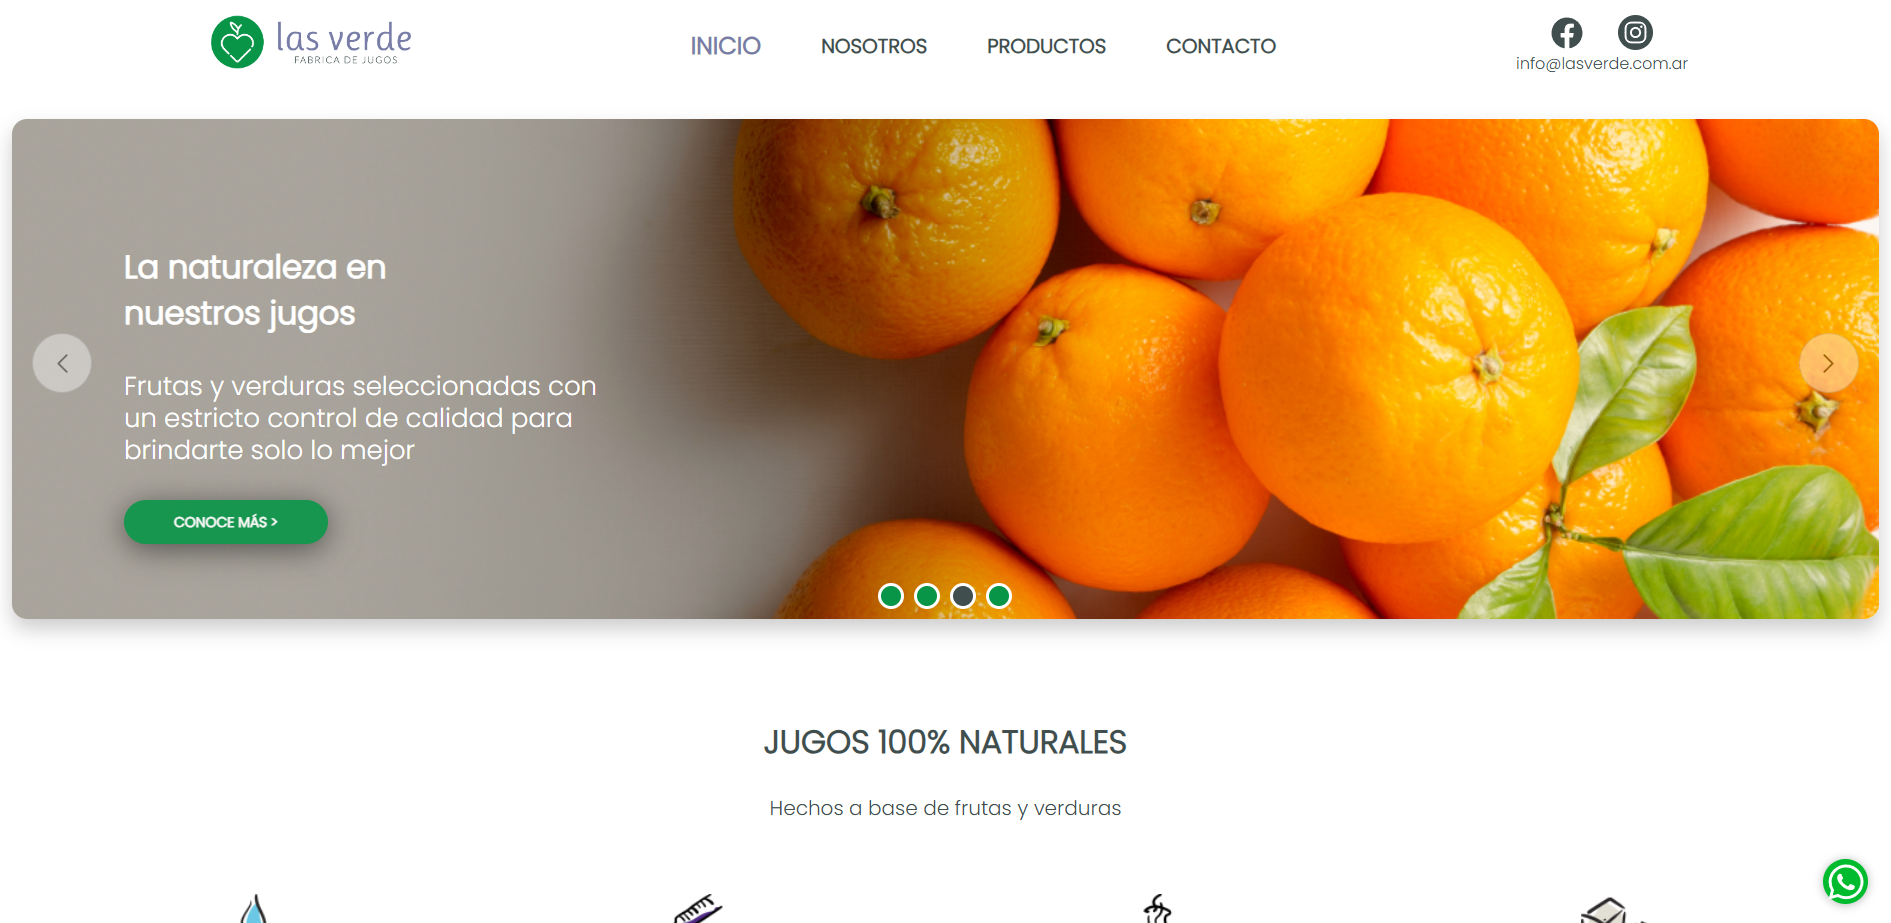
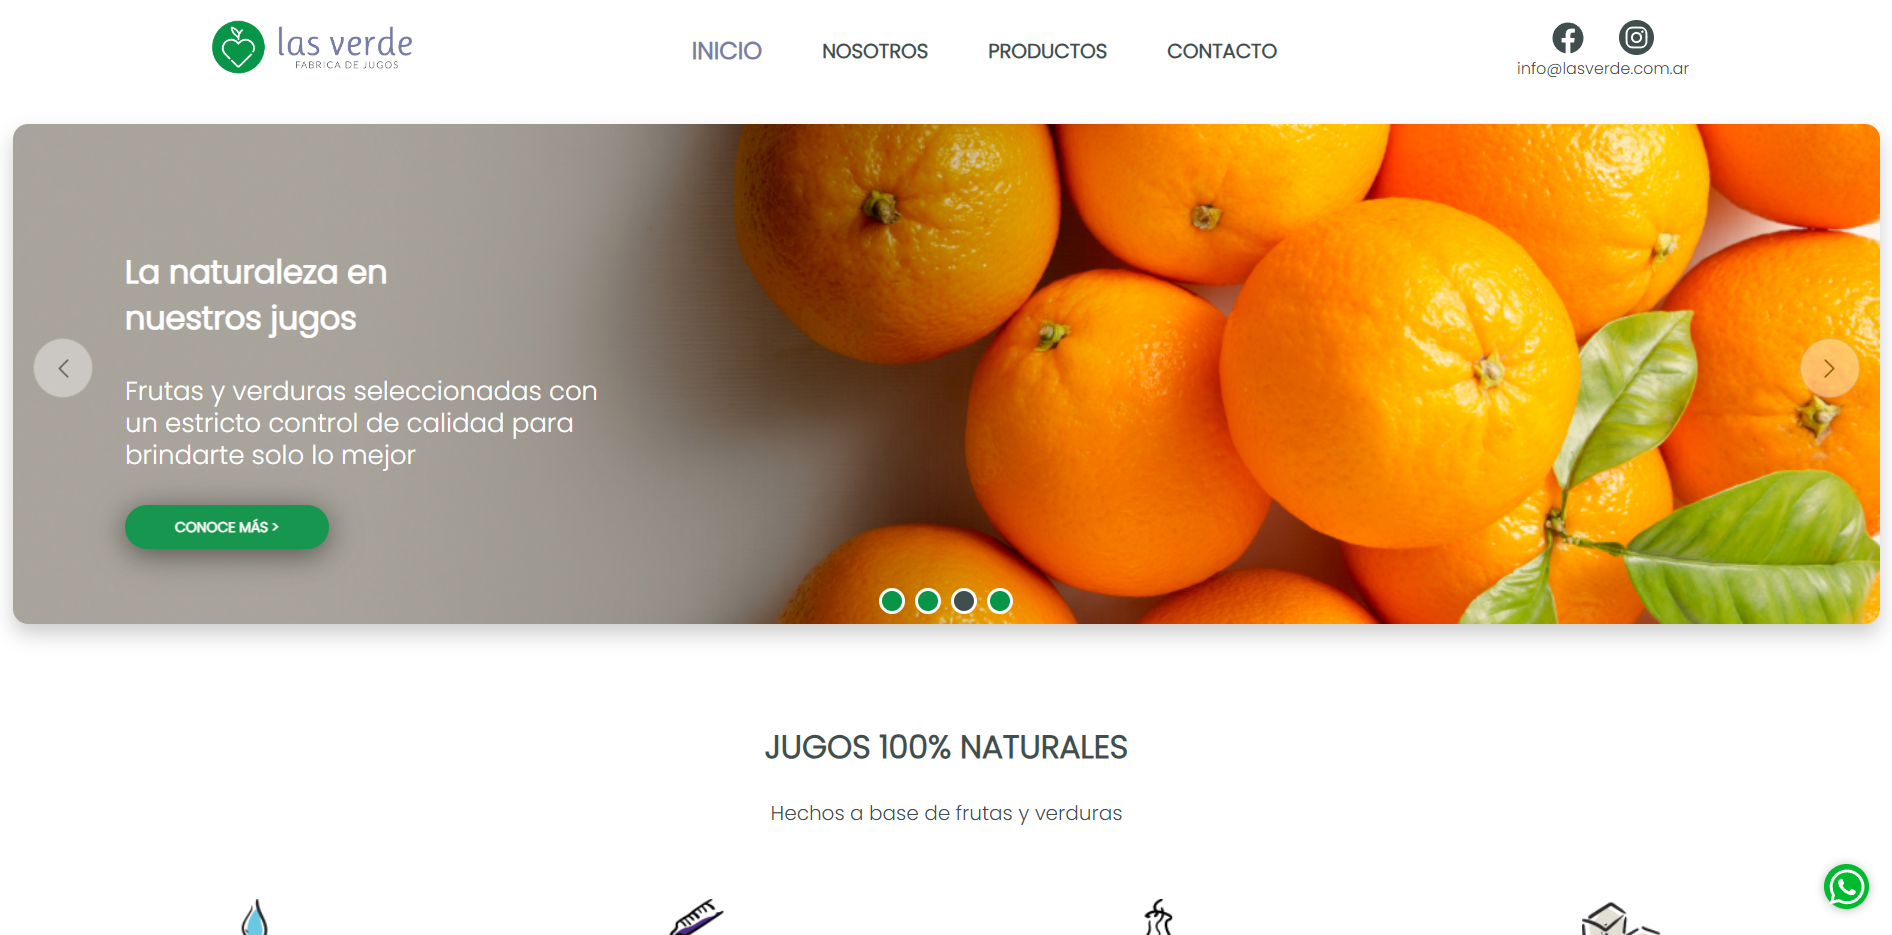
feat(portfolio): refine projects grid layout, mobile drawer navigation, and project preview assets
- projects: sort projects in reverse chronological order (2025 - Present first)
- projects: assign Solar Banco to APIs category and optimize tech tag names to eliminate wrapping gaps
- projects: set title min-height for uniform horizontal alignment and apply full-width cover preview containers
- projects: add private code badge footer for non-public client repositories
- projects: restore complete web application preview screenshot for Descubriendo Jardín Maternal
- mobile: fix SVG curve z-index overlap, center drawer footer social icons, and balance bottom viewport spacing
- links: restore direct mailto: action on email icons avoiding blank browser tab triggers

diff --git a/src/components/projects/ProjectCard.jsx b/src/components/projects/ProjectCard.jsx
@@ -3,7 +3,7 @@
 import { useState } from "react";
 import { motion, AnimatePresence } from "framer-motion";
 import Image from "next/image";
-import { ExternalLink, Github, Layers, ArrowUpRight, ChevronDown, ChevronUp } from "lucide-react";
+import { ExternalLink, Github, Layers, ArrowUpRight, ChevronDown, ChevronUp, Lock } from "lucide-react";
 
 export default function ProjectCard({ project, index }) {
   const [isExpanded, setIsExpanded] = useState(false);
@@ -15,8 +15,8 @@ export default function ProjectCard({ project, index }) {
       initial={{ opacity: 0, x: initialX, scale: 0.98 }}
       animate={{ opacity: 1, x: 0, scale: 1 }}
       transition={{
-        duration: 0.35,
-        delay: index * 0.05,
+        duration: 0.5,
+        delay: index * 0.1,
         ease: [0.25, 1, 0.5, 1],
       }}
       className="group relative flex flex-col justify-between rounded-[0.35rem] border border-soft surface-card p-4 sm:p-6 lg:p-8 transition-[border-color,box-shadow] duration-300 hover:border-indigo-500/40 hover:shadow-xl dark:hover:shadow-indigo-950/20"
@@ -31,26 +31,35 @@ export default function ProjectCard({ project, index }) {
           <span className="text-muted text-[0.7rem] sm:text-xs">{project.period}</span>
         </div>
 
-        {/* Title */}
-        <h3 className="text-lg sm:text-xl md:text-2xl font-bold text-foreground group-hover:text-indigo-600 dark:group-hover:text-indigo-400 transition-colors leading-snug">
-          {project.title}
-        </h3>
-
-        {/* Company subtitle */}
-        <p className="text-xs sm:text-sm font-semibold text-muted mt-1 mb-3 sm:mb-4">
-          {project.company}
-        </p>
+        {/* Title & Company (with min-height for horizontal alignment) */}
+        <div className="min-h-[5rem] sm:min-h-[5.5rem] flex flex-col justify-start mb-3 sm:mb-4">
+          <h3 className="text-lg sm:text-xl md:text-2xl font-bold text-foreground group-hover:text-indigo-600 dark:group-hover:text-indigo-400 transition-colors leading-snug">
+            {project.title}
+          </h3>
+          <p className="text-xs sm:text-sm font-semibold text-muted mt-1">
+            {project.company}
+          </p>
+        </div>
 
         {/* Image Preview / Banner */}
-        <div className="relative w-full h-28 sm:h-36 my-3 sm:my-4 rounded-[0.35rem] overflow-hidden bg-slate-100/80 dark:bg-slate-900/80 border border-slate-200/80 dark:border-slate-800/80 flex items-center justify-center p-3 sm:p-4 shadow-xs transition-colors">
-          <Image
-            src={project.image}
-            alt={project.title}
-            width={400}
-            height={200}
-            className="object-contain max-h-full w-auto transition-transform duration-500 group-hover:scale-105 rounded-[0.25rem] dark:brightness-95 dark:contrast-105"
-          />
-        </div>
+        {(() => {
+          const isLogo = project.id === "syspro-logistica" || project.id === "solar-banco-etl";
+          return (
+            <div className="relative w-full h-44 sm:h-52 md:h-56 my-3 sm:my-4 rounded-[0.35rem] overflow-hidden bg-slate-100/90 dark:bg-slate-900/90 border border-slate-200/80 dark:border-slate-800/80 flex items-center justify-center shadow-xs transition-colors">
+              <Image
+                src={project.image}
+                alt={project.title}
+                fill
+                sizes="(max-width: 768px) 100vw, (max-width: 1200px) 50vw, 600px"
+                className={
+                  isLogo
+                    ? "object-contain p-6 sm:p-8 transition-transform duration-500 group-hover:scale-105 dark:brightness-95 dark:contrast-105"
+                    : "object-cover object-top w-full h-full transition-transform duration-500 group-hover:scale-105 dark:brightness-95 dark:contrast-105"
+                }
+              />
+            </div>
+          );
+        })()}
 
         {/* Description / Summary with Read More */}
         <div className="my-3 sm:my-4">
@@ -67,19 +76,18 @@ export default function ProjectCard({ project, index }) {
             </motion.p>
           </AnimatePresence>
 
-          {project.description && project.description !== project.summary && (
-            <button
-              onClick={() => setIsExpanded(!isExpanded)}
-              className="inline-flex items-center gap-1 text-xs sm:text-sm font-semibold text-indigo-600 dark:text-indigo-400 hover:text-indigo-700 dark:hover:text-indigo-300 mt-2.5 transition-colors cursor-pointer focus:outline-none"
-            >
-              <span>{isExpanded ? "Ver menos" : "Ver más detalles"}</span>
-              {isExpanded ? (
-                <ChevronUp className="w-3.5 h-3.5 sm:w-4 sm:h-4" />
-              ) : (
-                <ChevronDown className="w-3.5 h-3.5 sm:w-4 sm:h-4" />
-              )}
-            </button>
-          )}
+          <button
+            onClick={() => setIsExpanded(!isExpanded)}
+            className="inline-flex items-center gap-1.5 text-xs sm:text-sm font-semibold text-indigo-600 dark:text-indigo-400 hover:text-indigo-700 dark:hover:text-indigo-300 mt-2 cursor-pointer transition-colors"
+            aria-expanded={isExpanded}
+          >
+            <span>{isExpanded ? "Ver menos" : "Ver más detalles"}</span>
+            {isExpanded ? (
+              <ChevronUp className="w-3.5 h-3.5 sm:w-4 sm:h-4" />
+            ) : (
+              <ChevronDown className="w-3.5 h-3.5 sm:w-4 sm:h-4" />
+            )}
+          </button>
         </div>
       </div>
 
@@ -96,8 +104,8 @@ export default function ProjectCard({ project, index }) {
           ))}
         </div>
 
-        {/* Links Footer (se renderiza solo si existen enlaces) */}
-        {(project.demoUrl || project.githubUrl) && (
+        {/* Links Footer or NDA Enterprise Badge */}
+        {project.demoUrl || project.githubUrl ? (
           <div className="flex flex-wrap items-center gap-3 sm:gap-4 pt-3 mt-3 border-t border-soft/50">
             {project.demoUrl && (
               <a
@@ -121,6 +129,11 @@ export default function ProjectCard({ project, index }) {
                 <span>Código</span>
               </a>
             )}
+          </div>
+        ) : (
+          <div className="flex items-center gap-2 pt-3 mt-3 border-t border-soft/50 text-xs sm:text-sm font-medium text-muted">
+            <Lock className="w-3.5 h-3.5 sm:w-4 sm:h-4 text-slate-400 opacity-80" />
+            <span>Proyecto de código privado</span>
           </div>
         )}
       </div>

diff --git a/src/components/projects/ProjectsGrid.jsx b/src/components/projects/ProjectsGrid.jsx
@@ -2,6 +2,7 @@
 
 import { useState, useEffect } from "react";
 import { motion, AnimatePresence } from "framer-motion";
+import { FolderSearch, RotateCcw } from "lucide-react";
 import { PROJECTS, PROJECT_CATEGORIES } from "@/data/projectsData";
 import ProjectCard from "./ProjectCard";
 
@@ -42,19 +43,46 @@ export default function ProjectsGrid() {
         })}
       </div>
 
-      {/* Grid container with smooth transition per category */}
+      {/* Grid container or Empty State */}
       <AnimatePresence mode="wait">
-        <motion.div
-          key={selectedCategory}
-          initial={{ opacity: 0 }}
-          animate={{ opacity: 1 }}
-          exit={{ opacity: 0, transition: { duration: 0.15 } }}
-          className="grid grid-cols-1 md:grid-cols-2 gap-6 sm:gap-8"
-        >
-          {filteredProjects.map((project, index) => (
-            <ProjectCard key={project.id} project={project} index={index} />
-          ))}
-        </motion.div>
+        {filteredProjects.length > 0 ? (
+          <motion.div
+            key={selectedCategory}
+            initial={{ opacity: 0 }}
+            animate={{ opacity: 1 }}
+            exit={{ opacity: 0, transition: { duration: 0.15 } }}
+            className="grid grid-cols-1 md:grid-cols-2 gap-6 sm:gap-8"
+          >
+            {filteredProjects.map((project, index) => (
+              <ProjectCard key={project.id} project={project} index={index} />
+            ))}
+          </motion.div>
+        ) : (
+          <motion.div
+            key="empty-state"
+            initial={{ opacity: 0, y: 12, scale: 0.98 }}
+            animate={{ opacity: 1, y: 0, scale: 1 }}
+            exit={{ opacity: 0, scale: 0.98, transition: { duration: 0.15 } }}
+            className="flex flex-col items-center justify-center py-14 px-6 text-center surface-card border border-soft rounded-[0.35rem] my-4 shadow-sm"
+          >
+            <div className="w-14 h-14 rounded-full bg-indigo-500/10 text-indigo-600 dark:text-indigo-400 flex items-center justify-center mb-4">
+              <FolderSearch className="w-7 h-7" />
+            </div>
+            <h3 className="text-lg sm:text-xl font-bold text-foreground mb-2">
+              No hay proyectos en esta categoría por el momento
+            </h3>
+            <p className="text-xs sm:text-sm text-muted-foreground mb-6 max-w-md leading-relaxed">
+              Los módulos de APIs y Microservicios están integrados dentro de las soluciones Full Stack o bajo acuerdo de confidencialidad (NDA).
+            </p>
+            <button
+              onClick={() => setSelectedCategory("all")}
+              className="inline-flex items-center gap-2 px-4 py-2.5 rounded-[0.35rem] bg-indigo-600 text-white text-xs sm:text-sm font-semibold hover:bg-indigo-700 transition-colors shadow-sm cursor-pointer"
+            >
+              <RotateCcw className="w-3.5 h-3.5 sm:w-4 sm:h-4" />
+              <span>Ver todos los proyectos</span>
+            </button>
+          </motion.div>
+        )}
       </AnimatePresence>
     </div>
   );

diff --git a/src/components/header/BurgerMenuMobile.jsx b/src/components/header/BurgerMenuMobile.jsx
@@ -58,24 +58,27 @@ const BurgerMenuMobile = ({ updateMenu }) => {
             />
           ))}
         </div>
-        <div className="footer border-t border-t-gray-200 pt-6">
+        <div className="footer border-t border-t-gray-200/50 pt-2 pb-1 sm:pb-2 flex-shrink-0 flex items-center justify-center gap-6 sm:gap-8">
           <motion.div {...slideMotionProps} custom={footerStartIndex}>
             <ThemeToggle />
           </motion.div>
-          {SOCIAL_LINKS.map(({ href, label, Icon }, index) => (
-            <motion.a
-              key={href}
-              {...slideMotionProps}
-              custom={footerStartIndex + index + 1}
-              href={href}
-              target="_blank"
-              rel="noreferrer"
-              aria-label={label}
-              className="text-muted-link transition-colors hover:text-accent"
-            >
-              <Icon size={20} />
-            </motion.a>
-          ))}
+          {SOCIAL_LINKS.map(({ href, label, Icon }, index) => {
+            const isMail = href.startsWith("mailto:");
+            return (
+              <motion.a
+                key={href}
+                {...slideMotionProps}
+                custom={footerStartIndex + index + 1}
+                href={href}
+                target={isMail ? undefined : "_blank"}
+                rel={isMail ? undefined : "noreferrer"}
+                aria-label={label}
+                className="text-muted-link transition-colors hover:text-accent"
+              >
+                <Icon size={20} />
+              </motion.a>
+            );
+          })}
         </div>
       </div>
     </motion.div>

diff --git a/src/app/globals.css b/src/app/globals.css
@@ -156,24 +156,26 @@ body::-webkit-scrollbar-thumb {
 	top: 0;
 	right: 0;
 	z-index: 60;
-	overflow: hidden;
+	overflow-y: auto;
 }
 
 .menu .body {
 	box-sizing: border-box;
-	padding: 0 2rem max(1.5rem, env(safe-area-inset-bottom)) 2rem;
-	height: 100%;
+	padding: 0 1.5rem max(1.25rem, env(safe-area-inset-bottom)) 1.5rem;
+	min-height: 100%;
 	display: flex;
 	flex-direction: column;
 	justify-content: space-between;
+	position: relative;
+	z-index: 50;
 }
 
 .menu .body .nav {
-	margin-top: 5rem;
+	margin-top: 2rem;
 	display: flex;
 	flex-direction: column;
-	gap: 1rem;
-	font-size: 1.2rem;
+	gap: 0.75rem;
+	font-size: 1.15rem;
 }
 
 .menu .body .nav .header h2 {
@@ -192,12 +194,13 @@ body::-webkit-scrollbar-thumb {
 .menu .body .nav .link-content {
 	width: 100%;
 	display: flex;
-	gap: 0.65rem;
+	gap: 0.75rem;
 	align-items: center;
 	text-decoration: none;
 	color: inherit;
 	font-weight: 500;
 	transition: color 0.2s ease;
+	padding-left: 0.25rem;
 }
 
 .menu .body .nav .link-content:hover {
@@ -206,9 +209,9 @@ body::-webkit-scrollbar-thumb {
 
 .menu .footer {
 	display: flex;
-	justify-content: space-between;
+	justify-content: center;
 	align-items: center;
-	gap: 0.75rem;
+	gap: 1.5rem;
 	font-size: 0.85rem;
 	color: var(--muted);
 }

diff --git a/src/data/projectsData.js b/src/data/projectsData.js
@@ -60,8 +60,8 @@ export const PROJECTS = [
   {
     id: "solar-banco-etl",
     title: "Plataforma de Riesgos & Liquidez (LCR / VaR)",
-    category: "full-stack",
-    categoryLabel: "Full Stack",
+    category: "apis",
+    categoryLabel: "APIs y Microservicios",
     company: "Solar Banco",
     period: "2024 — 2025",
     summary:
@@ -102,7 +102,7 @@ export const PROJECTS = [
       "Plataforma institucional responsiva con catálogo de propuesta educativa, slider interactivo, FAQ y validación de contacto.",
     description:
       "Proyecto cliente real asignado por Coderhouse como premio por quedar en el Top 10 del curso de Desarrollo Web. Desarrollado con HTML5 semántico, CSS3/Bootstrap 5 y JavaScript (ES6+). Incluye slider interactivo de instalaciones, validación cliente de formularios, acordeón de preguntas frecuentes e integración con Google Maps y WhatsApp.",
-    image: "/images/descubriendo_jardin.svg",
+    image: "/images/descubriendo_jardin_preview.png",
     tags: ["HTML5", "CSS3", "Bootstrap 5", "UX/UI", "JavaScript", "Responsive"],
     featured: false,
     githubUrl: "https://github.com/GustavoBaranda/Descubrimiento-Jardin-Maternal",

diff --git a/src/components/common/SocialLinks.jsx b/src/components/common/SocialLinks.jsx
@@ -25,18 +25,21 @@ export default function SocialLinks({
 }) {
   return (
     <div className={className}>
-      {SOCIAL_LINKS.map(({ href, label, Icon }) => (
-        <a
-          key={href}
-          href={href}
-          target="_blank"
-          rel="noopener noreferrer"
-          aria-label={label}
-          className={linkClassName}
-        >
-          <Icon size={iconSize} />
-        </a>
-      ))}
+      {SOCIAL_LINKS.map(({ href, label, Icon }) => {
+        const isMail = href.startsWith("mailto:");
+        return (
+          <a
+            key={href}
+            href={href}
+            target={isMail ? undefined : "_blank"}
+            rel={isMail ? undefined : "noopener noreferrer"}
+            aria-label={label}
+            className={linkClassName}
+          >
+            <Icon size={iconSize} />
+          </a>
+        );
+      })}
     </div>
   );
 }
